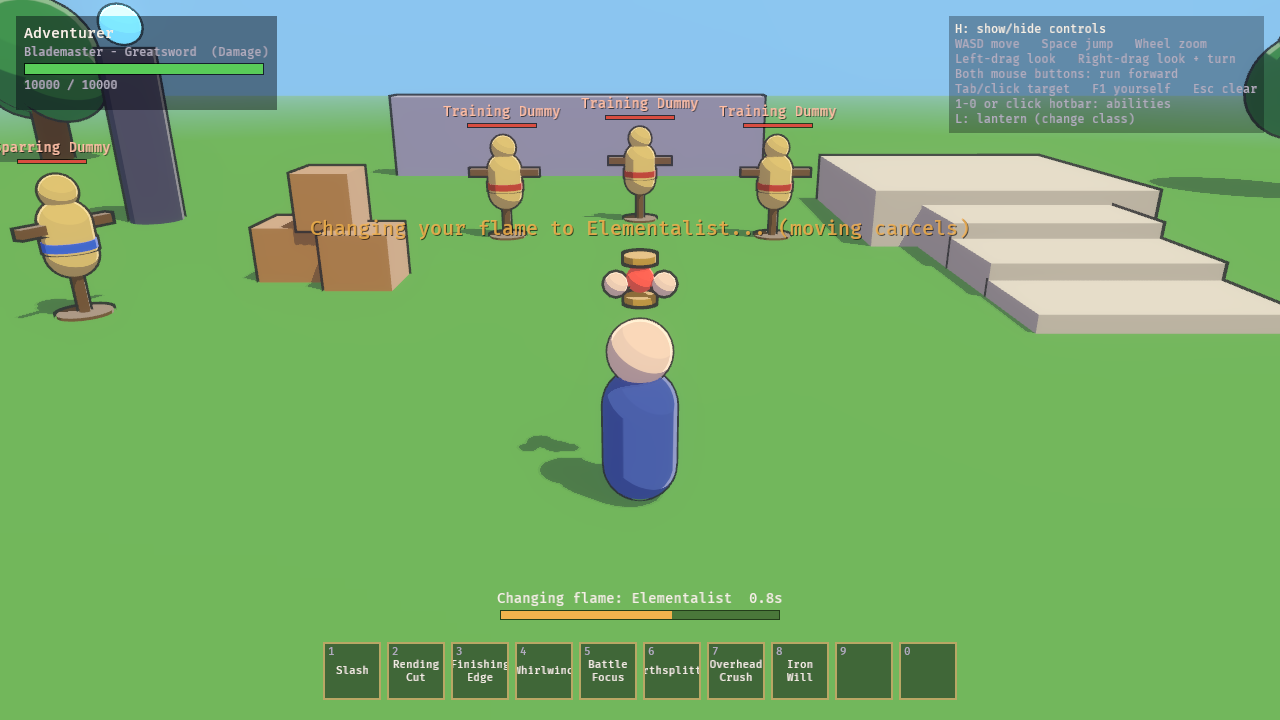
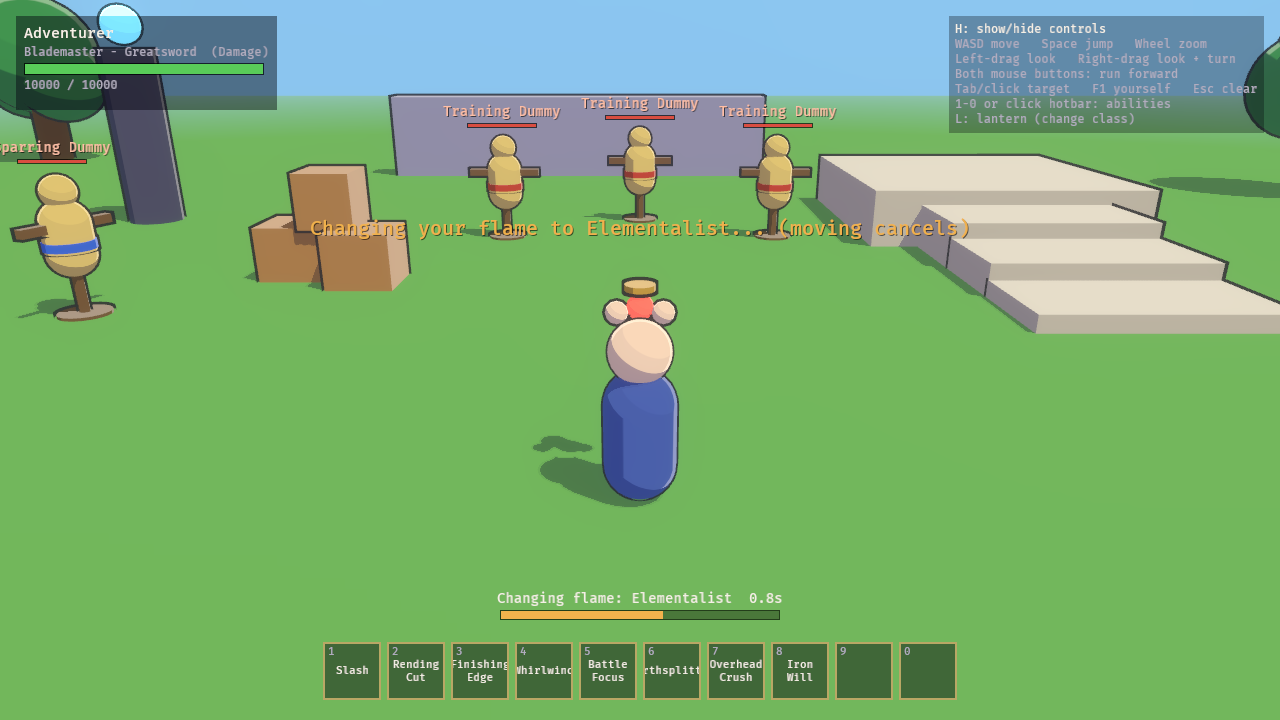
Lower the held lantern to eye level and fade messages fully
- While changing flame the lantern is held in front of the face with its
  bottom at about eye level, and the character tilts their head up to
  look at it (user request).
- Fix: on-screen messages such as 'Not ready yet.' never disappeared
  because only the text faded, not its drop shadow. Messages (and damage
  numbers) now fade text and shadow together and hide when done. Test
  added for the fade curve.

Claude-Session: https://claude.ai/code/session_01UDBu4QQow34DHm94NhCQSL

Changed region(s): [[0.4688, 0.3361, 0.5312, 0.4583], [0.4062, 0.5806, 0.4688, 0.6417]]

diff --git a/client/src/characters.rs b/client/src/characters.rs
@@ -69,9 +69,14 @@ struct LanternFlame {
 
 /// Where the lantern hangs at the side (when "always show" is on).
 const LANTERN_AT_SIDE: Vec3 = Vec3::new(0.48, 0.75, -0.12);
-/// Where it is held up in both hands while the flame changes: raised
-/// above the head and a little forward, so it shows from behind too.
-const LANTERN_HELD_OUT: Vec3 = Vec3::new(0.0, 2.05, -0.45);
+/// Where it is held up in both hands while the flame changes: in front of
+/// the face, with the bottom of the lantern at about eye level.
+/// (Eyes are at ~1.51 m; the held lantern's bottom is ~0.22 m below its centre.)
+const LANTERN_HELD_OUT: Vec3 = Vec3::new(0.0, 1.74, -0.55);
+/// How far the head tilts up to look at the held lantern (radians).
+const LOOK_UP: f32 = 0.35;
+/// Where the head sits on the body.
+const HEAD_POSITION: Vec3 = Vec3::new(0.0, 1.48, 0.0);
 /// The lantern looks a bit bigger while held up.
 const LANTERN_HELD_SCALE: f32 = 1.5;
 /// How long the lantern stays out after the new flame catches.
@@ -84,6 +89,8 @@ const LANTERN_SPEED: f32 = 4.0;
 struct Lantern {
     owner: Entity,
     hands: Entity,
+    /// The owner's head, which tilts up to look at the held lantern.
+    head: Entity,
     /// 0 = put away, 1 = fully visible.
     shown: f32,
     /// 0 = at the side, 1 = held out in front.
@@ -189,7 +196,7 @@ fn build_player(commands: &mut Commands, toon: &mut ToonAssets, player: Entity) 
         Sphere::new(0.3).mesh().uv(32, 18),
         skin,
         Outline::Smooth,
-        Transform::from_xyz(0.0, 1.48, 0.0),
+        Transform::from_translation(HEAD_POSITION),
     );
     for side in [-1.0, 1.0] {
         toon.spawn_part(
@@ -228,6 +235,7 @@ fn build_player(commands: &mut Commands, toon: &mut ToonAssets, player: Entity) 
     commands.entity(lantern).insert(Lantern {
         owner: player,
         hands,
+        head,
         shown: 0.0,
         held: 0.0,
         linger: 0.0,
@@ -487,6 +495,7 @@ fn animate_lantern_holding(
     owners: Query<Has<FlameChange>>,
     mut lanterns: Query<(&mut Lantern, &mut Transform, &mut Visibility)>,
     mut hands: Query<&mut Visibility, Without<Lantern>>,
+    mut heads: Query<&mut Transform, Without<Lantern>>,
 ) {
     let dt = time.delta_secs();
     let step = dt * LANTERN_SPEED;
@@ -508,6 +517,9 @@ fn animate_lantern_holding(
         } else {
             Visibility::Hidden
         };
+        if let Ok(mut head) = heads.get_mut(lantern.head) {
+            head.rotation = Quat::from_rotation_x(LOOK_UP * held);
+        }
         if let Ok(mut hands_visibility) = hands.get_mut(lantern.hands) {
             *hands_visibility = if lantern.held > 0.5 {
                 Visibility::Inherited

diff --git a/client/src/hud/floating.rs b/client/src/hud/floating.rs
@@ -20,6 +20,8 @@ const NAMEPLATE_WIDTH: f32 = 160.0;
 /// How long damage numbers stay up, in seconds.
 const DAMAGE_NUMBER_LIFE: f32 = 1.1;
 const MESSAGE_LIFE: f32 = 1.6;
+/// Matches the shadow alpha set by `text_shadow()`.
+const SHADOW_ALPHA: f32 = 0.85;
 
 pub struct FloatingPlugin;
 
@@ -318,11 +320,12 @@ fn animate_damage_numbers(
         &mut DamageNumber,
         &mut Node,
         &mut TextColor,
+        &mut TextShadow,
         &mut Visibility,
     )>,
 ) {
     let (camera, camera_transform) = *camera;
-    for (entity, mut number, mut node, mut color, mut visibility) in &mut numbers {
+    for (entity, mut number, mut node, mut color, mut shadow, mut visibility) in &mut numbers {
         number.age += time.delta_secs();
         if number.age >= DAMAGE_NUMBER_LIFE {
             commands.entity(entity).despawn();
@@ -339,12 +342,48 @@ fn animate_damage_numbers(
         }
         let fade = 1.0 - (number.age / DAMAGE_NUMBER_LIFE).powi(3);
         color.0.set_alpha(fade);
+        shadow.color.set_alpha(fade * SHADOW_ALPHA);
     }
 }
 
-fn fade_message(time: Res<Time>, mut message: Single<(&mut TextColor, &mut MessageLine)>) {
-    let (color, line) = &mut *message;
+/// Messages stay for a moment, then fade out completely (text and its
+/// shadow) and are hidden until the next one.
+fn fade_message(
+    time: Res<Time>,
+    mut message: Single<(
+        &mut TextColor,
+        &mut TextShadow,
+        &mut Visibility,
+        &mut MessageLine,
+    )>,
+) {
+    let (color, shadow, visibility, line) = &mut *message;
     line.age += time.delta_secs();
-    let alpha = (1.0 - (line.age - MESSAGE_LIFE * 0.6) / (MESSAGE_LIFE * 0.4)).clamp(0.0, 1.0);
+    let alpha = message_alpha(line.age);
     color.0.set_alpha(alpha);
+    shadow.color.set_alpha(alpha * SHADOW_ALPHA);
+    **visibility = if alpha > 0.0 {
+        Visibility::Inherited
+    } else {
+        Visibility::Hidden
+    };
+}
+
+/// Fully visible for most of the message's life, then fading to nothing.
+fn message_alpha(age: f32) -> f32 {
+    (1.0 - (age - MESSAGE_LIFE * 0.6) / (MESSAGE_LIFE * 0.4)).clamp(0.0, 1.0)
+}
+
+#[cfg(test)]
+mod tests {
+    use super::*;
+
+    #[test]
+    fn messages_fade_out_completely() {
+        assert_eq!(message_alpha(0.0), 1.0);
+        assert_eq!(message_alpha(MESSAGE_LIFE * 0.5), 1.0);
+        assert!(message_alpha(MESSAGE_LIFE * 0.8) < 1.0);
+        assert_eq!(message_alpha(MESSAGE_LIFE), 0.0);
+        assert_eq!(message_alpha(MESSAGE_LIFE * 10.0), 0.0);
+    }
 }
